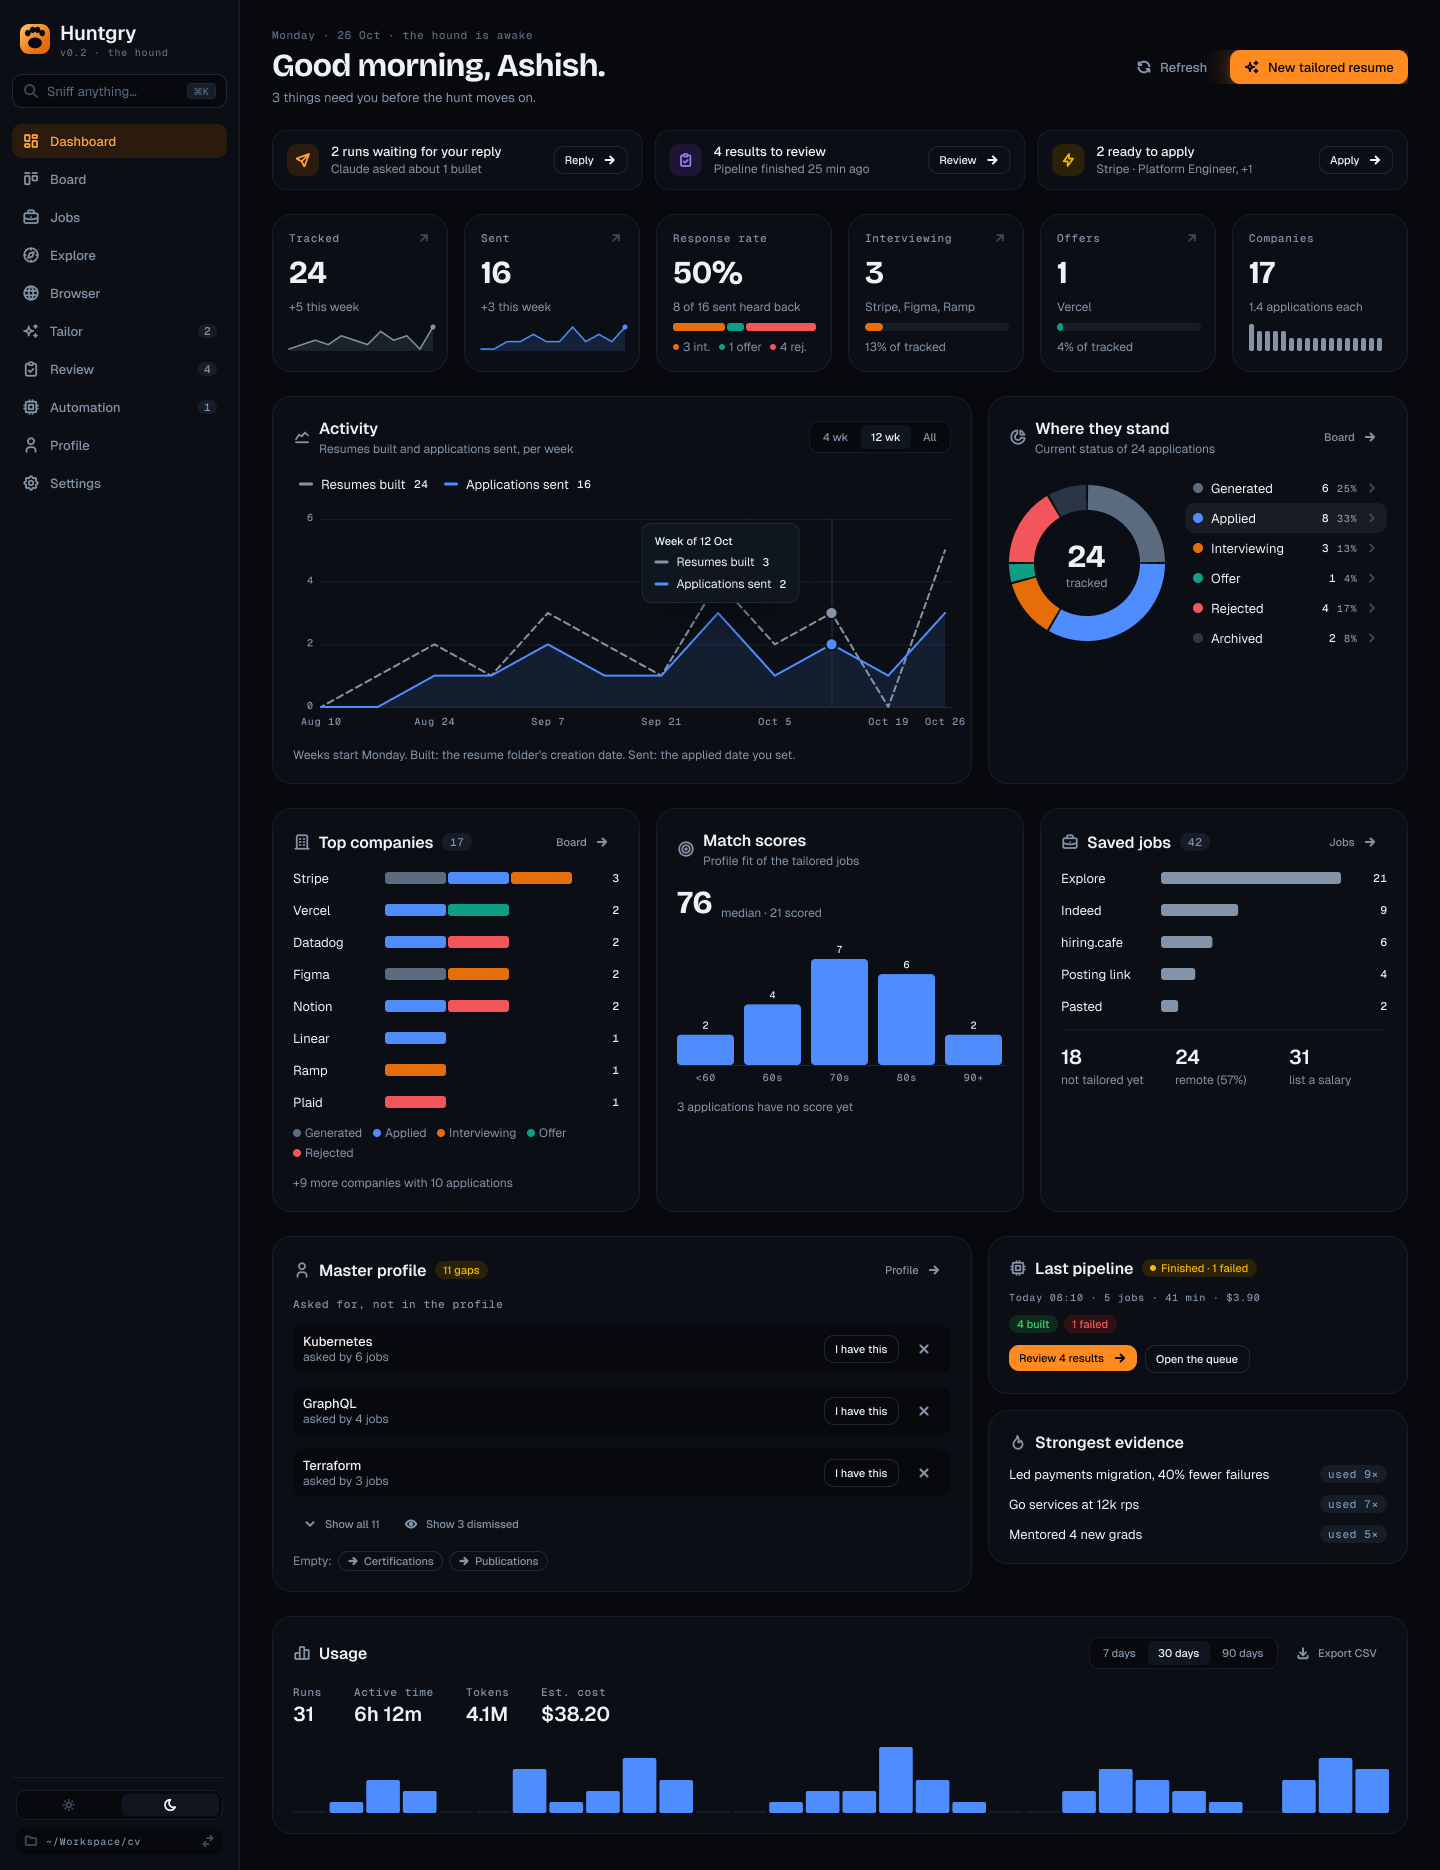
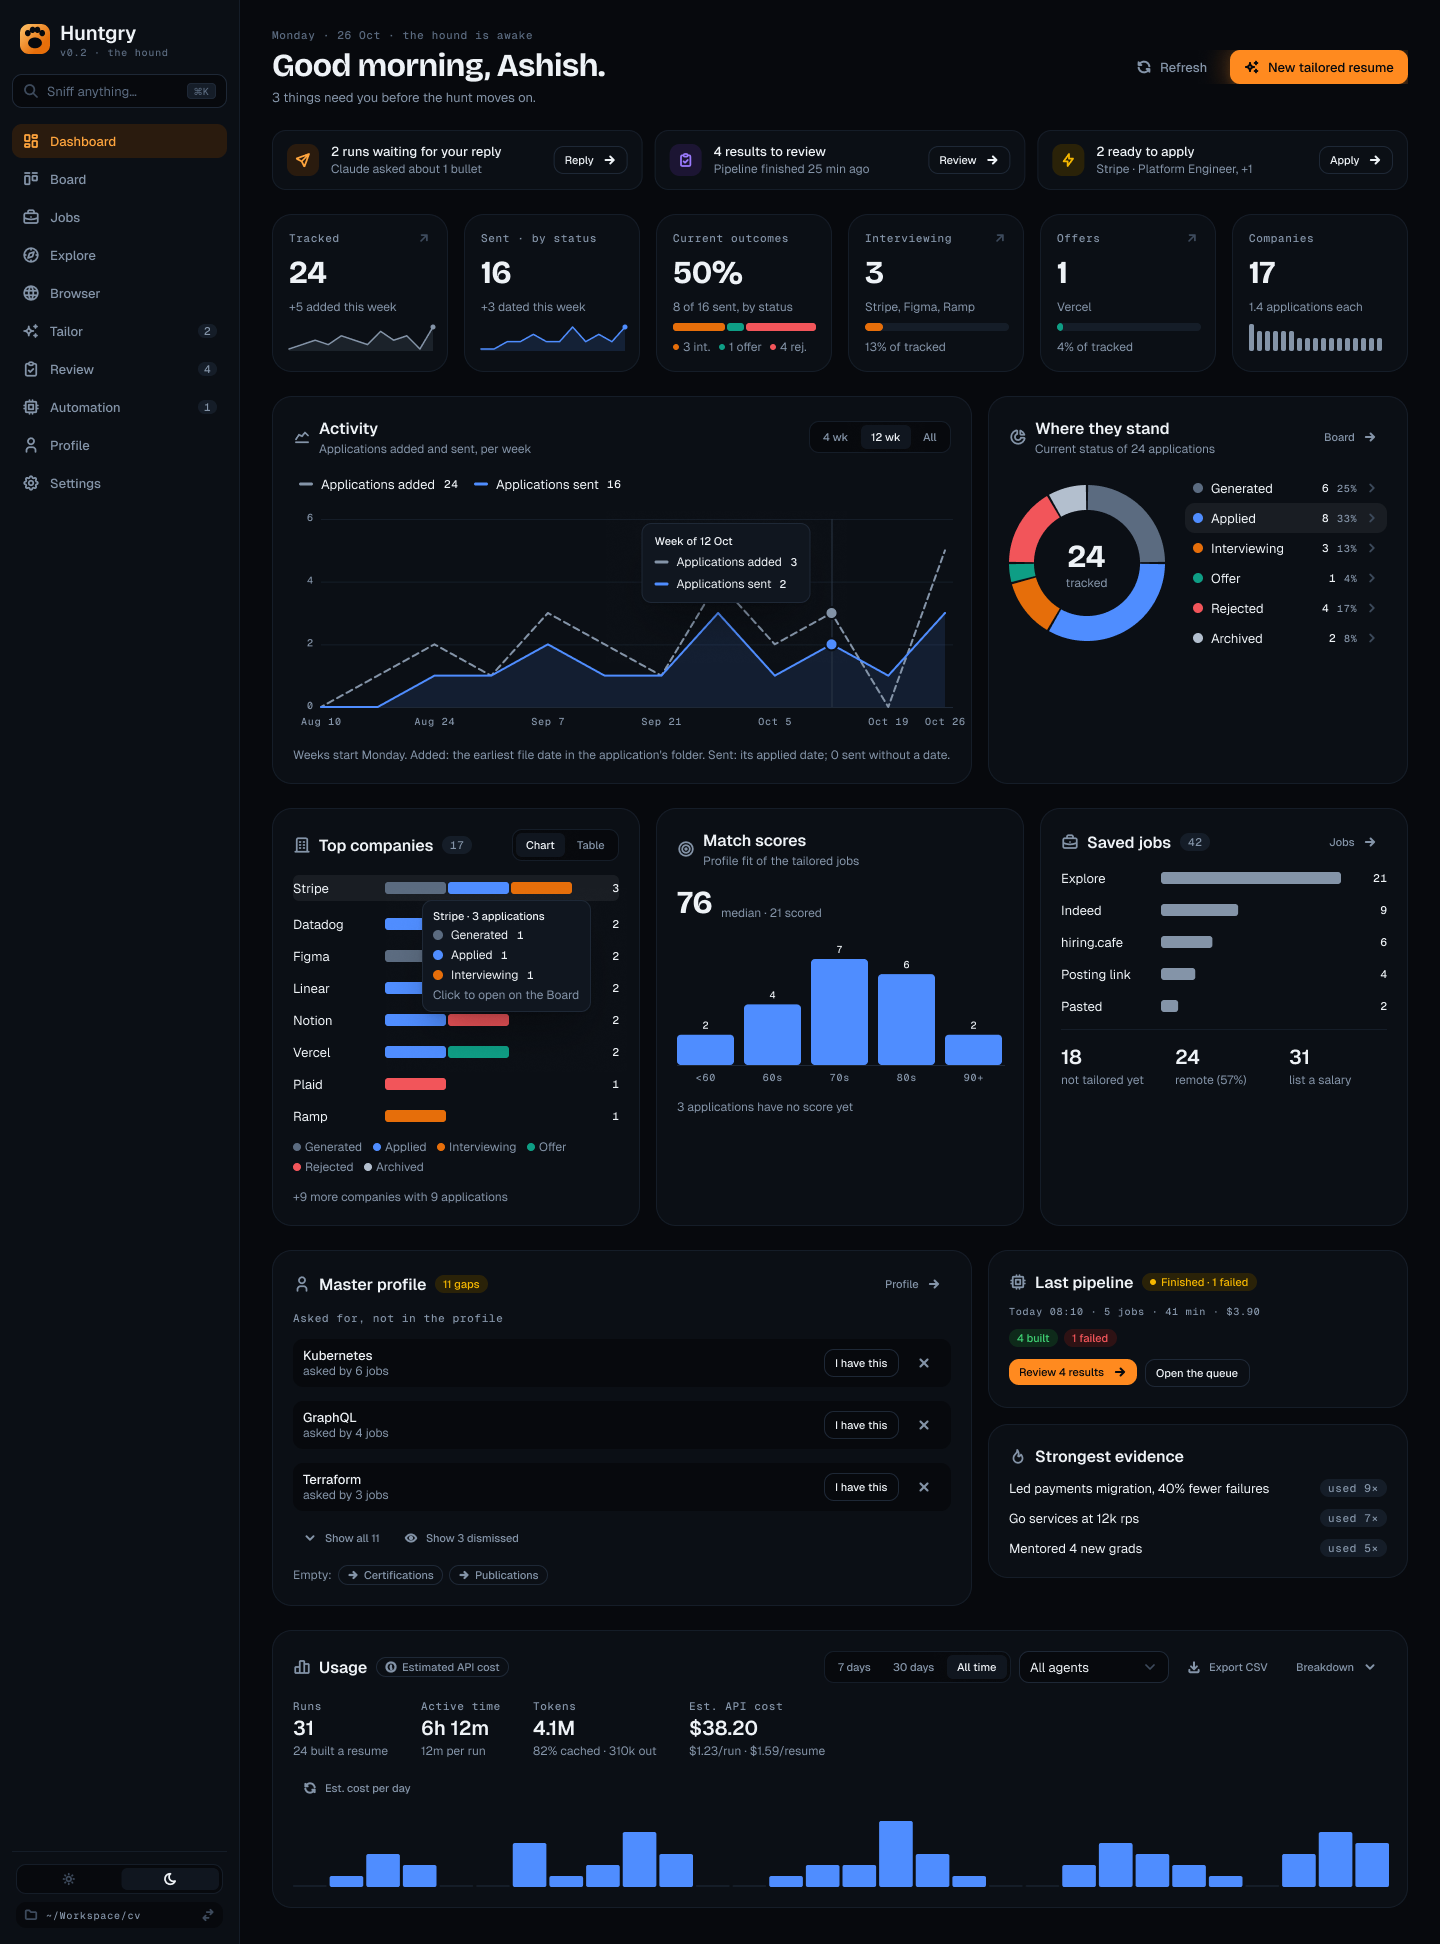
docs(design): Dashboard round 3, Codex's round-2 findings
Sent and Current outcomes are current-status figures with their denominator,
not links; the added series is named for what createdAt is; Top companies
gets a visible table and a per-row tooltip; Archived is legible; Usage is
drawn with its real controls; appliedAt is never invented and its UTC writer
is in scope for #183.

diff --git a/docs/design/dashboard-v2.md b/docs/design/dashboard-v2.md
@@ -6,8 +6,8 @@ Figma: [Huntgry — Product & Website Design](https://www.figma.com/design/zhNcc
 
 | Frame | Light | Dark |
 | --- | --- | --- |
-| Wide (1440) | [67:2](https://www.figma.com/design/zhNccc831dRnOhj2tmqqkc/?node-id=67-2) | [67:674](https://www.figma.com/design/zhNccc831dRnOhj2tmqqkc/?node-id=67-674) |
-| Narrow (1024) | [67:1346](https://www.figma.com/design/zhNccc831dRnOhj2tmqqkc/?node-id=67-1346) | [67:2018](https://www.figma.com/design/zhNccc831dRnOhj2tmqqkc/?node-id=67-2018) |
+| Wide (1440) | [68:2](https://www.figma.com/design/zhNccc831dRnOhj2tmqqkc/?node-id=68-2) | [68:712](https://www.figma.com/design/zhNccc831dRnOhj2tmqqkc/?node-id=68-712) |
+| Narrow (1024) | [68:1422](https://www.figma.com/design/zhNccc831dRnOhj2tmqqkc/?node-id=68-1422) | [68:2132](https://www.figma.com/design/zhNccc831dRnOhj2tmqqkc/?node-id=68-2132) |
 | Empty (cold start) | [66:2691](https://www.figma.com/design/zhNccc831dRnOhj2tmqqkc/?node-id=66-2691) | [66:2865](https://www.figma.com/design/zhNccc831dRnOhj2tmqqkc/?node-id=66-2865) |
 
 ## What changed since round 1
@@ -20,7 +20,7 @@ them most of the review findings:
 | --- | --- | --- |
 | Pipeline funnel with "share of previous stage" bars | **Where they stand** donut of *current* statuses, which sum to the total | Codex and Antigravity (high): current-status counts are partitions, not cohort milestones |
 | Fresh matches (top Explore rows) | Removed. The Dashboard never reads Explore | Codex (medium), Antigravity (high): no cache-only Explore API; staleness |
-| This week (latest change per application, with times) | **Activity** chart: resumes built per week (`createdAt`) and applications sent per week (`appliedAt`, a date) | Codex and Antigravity (high): fabricated times and history |
+| This week (latest change per application, with times) | **Activity** chart: applications added per week (`createdAt`) and applications sent per week (`appliedAt`, a date) | Codex and Antigravity (high): fabricated times and history |
 | Automation card absorbing Last pipeline, "$3.90 of $10 today" | Removed. **Last pipeline** stays today's card, unchanged | Codex and Antigravity (medium): per-run cap; manual pipelines |
 | Master profile "top 3 + Show all · 3 marked not me" | Today's **ProfileInsightsCard**, unchanged (show all, show dismissed and restore, empty-section links, "Already in your Gaps & notes") | Codex and Antigravity (medium): "nothing is dropped" was not true |
 | Compact Usage strip | Today's **UsageCard**, unchanged | — |
@@ -46,18 +46,22 @@ From top to bottom:
 2. **Needs you** (today's `NeedsYouStrip`): one card per item, equal heights. Below 1280 px they stack
    one per row, so a long line never wraps into a tall card.
 3. **Stat cards**, six in a row (3 × 2 below 1280 px):
-   - **Tracked**: every application. "+N this week", and a 12-week sparkline of resumes built.
-   - **Sent**: applications whose status is applied, interviewing, offer or rejected. "+N this week",
-     and a 12-week sparkline of the `appliedAt` dates.
-   - **Response rate**: (interviewing + offer + rejected) ÷ sent, with a split bar of the three parts.
+   - **Tracked**: every application. "+N added this week", and a 12-week sparkline of applications added.
+   - **Sent · by status**: applications whose status is now applied, interviewing, offer or rejected.
+     "+N dated this week", and a 12-week sparkline of the `appliedAt` dates. It is a current-status
+     count, not an all-time total: archiving a sent application lowers it.
+   - **Current outcomes**: (interviewing + offer + rejected) ÷ Sent, shown with its denominator ("8 of 16
+     sent, by status") and a split bar of the three parts. It is not a response rate and makes no claim
+     about responses in the past.
    - **Interviewing** and **Offers**: current counts, the companies (`listNames`), and a bar of their
      share of Tracked.
    - **Companies**: distinct companies, applications per company, and a strip of one bar per company.
 
-   Tracked, Sent, Interviewing and Offers open the Board as the tiles do today (`kpiColumn`; Sent opens
-   Applied). Rejected and Archived counts are in the donut, whose rows also open the Board.
+   Tracked, Interviewing and Offers open the Board as the tiles do today (`kpiColumn`). Sent and Current
+   outcomes are information only, because no Board destination shows four columns at once. Applied,
+   Rejected and Archived each open their column from the donut's legend rows.
 4. **Activity** (line chart, wide) and **Where they stand** (donut).
-   - Activity has two series on one axis, resumes built and applications sent per week, with a
+   - Activity has two series on one axis, applications added and applications sent per week, with a
      4 wk / 12 wk / All range. Hovering or focusing a week shows a crosshair and a tooltip with both
      counts.
    - Where they stand shows all six statuses. Its legend rows (count, share) are buttons that open the
@@ -65,12 +69,21 @@ From top to bottom:
 5. **Top companies**, **Match scores**, **Saved jobs**, three equal cards (two per row below 1280 px):
    - Top companies: the eight companies with the most applications, each a bar stacked by status in the
      donut's colours and order, then "+N more companies with M applications".
+     - **Chart / Table** toggle (visible, keyboard-operable) in the card header. The Table view lists each
+       company with a count per status (six columns), so the breakdown never rests on colour alone.
+     - In the Chart view each row is a button. Pointer hover and keyboard focus show the same tooltip
+       ("Stripe · 3 applications: 1 Generated, 1 Applied, 1 Interviewing"), and the button opens the
+       Board filtered by that company.
+     - Segments have a 2 px surface gap, so every segment, Archived included, has a visible edge.
    - Match scores: a histogram of `tracking.match.profileFit` (< 60, 60s, 70s, 80s, 90+), the median, and
      "N applications have no score yet".
    - Saved jobs: saved jobs (dismissed ones left out) by source, then not tailored yet, remote, and with
      a salary.
 6. Today's cards, unchanged: **Master profile** (ProfileInsightsCard), with **Last pipeline** and
    **Strongest evidence** in a 420 px column beside it (side by side below 1280 px), then **Usage**.
+   The frames draw Usage with its real controls: 7 days / 30 days / All time, the agent select, Export
+   CSV, Breakdown, each KPI's sub-line, and the cost/tokens toggle above the day chart. The unpriced and
+   incomplete-turn notes and the Breakdown panel are unchanged too.
 
 **Below ~1000 px window** (the app's minimum is 900): chart pairs stack to one column, and the donut's
 legend goes under the ring (as in the narrow frame's donut card).
@@ -100,22 +113,23 @@ functions in `summary.ts` (or a new `stats.ts`), unit-tested on fixtures.
 | This week | From Monday 00:00 local time, the same bucket as the chart's last week |
 | Tracked +N | `createdAt` this week |
 | Sent | status ∈ {applied, interviewing, offer, rejected} |
-| Sent +N, Sent sparkline, Activity "sent" | `tracking.appliedAt` (`YYYY-MM-DD`, read as a local date). Main sets it the first time the status becomes applied; an application that skipped Applied has none, is not on the line, and the chart's footnote then says "N sent without a date". |
-| Activity "built", Tracked sparkline | `createdAt` (the folder's creation time) per week |
-| Response rate | (interviewing + offer + rejected) ÷ Sent; "—" while Sent is 0. Tooltip: "By current status: a rejection counts as hearing back." It is a share of current statuses, not a history. |
+| Sent +N, Sent sparkline, Activity "sent" | `tracking.appliedAt` (`YYYY-MM-DD`) of every application that has one, archived included, per week. Sent (the card) is by status, so the two can differ; the chart's footnote names the difference ("N sent without a date"). Huntgry never invents a date. Main sets `appliedAt` the first time the status becomes applied. An application moved straight to Interviewing or Rejected has none, and its drawer's date field is how the user adds the real one. |
+| `appliedAt` day | Main writes it with `toISOString().slice(0, 10)`, a UTC date, so on a Sunday evening in the Americas it can already read Monday. #183 changes the writer to the local date (with a test at that boundary); dates written before stay as they are, and the spec accepts that. |
+| Activity "added", Tracked sparkline | `createdAt` per week. The scanner sets it to the earliest file time in the application's folder (`scan.ts`), so it says when the application was added, not when its resume was built. Series, tooltip, table and copy all say "added". |
+| Current outcomes | (interviewing + offer + rejected) ÷ Sent, by current status, with the denominator shown; "—" while Sent is 0. No claim about past responses: archived applications are in neither count. |
 | Interviewing, Offers | Current counts; share = count ÷ Tracked |
 | Companies | Distinct `company`, trimmed and compared case-insensitively; "N applications each" = Tracked ÷ Companies, one decimal |
 | Where they stand | Counts per status; they sum to Tracked |
 | Top companies | Count per company, highest first, ties alphabetical; eight rows; segments by current status |
 | Match scores | `tracking.match.profileFit` of applications that have `match`; median of those |
-| Saved jobs | `jobs.filter(j => !j.dismissed)`; sources `jobright` → Explore, `indeed`, `hiring.cafe`, `url` → Posting link, `pasted` (the Board's `BOARD_SOURCE_LABEL` says Jobright and Link; #183 picks one wording for both); not tailored = no `tailoredAt`; remote = `remote` or `workplaceType === 'remote'`; with a salary = non-empty `salary` |
+| Saved jobs | `jobs.filter(j => !j.dismissed)`; sources `jobright` → Explore, `indeed`, `hiring.cafe`, `url` → Posting link, `pasted` (the Board's `BOARD_SOURCE_LABEL` says Jobright and Link; #183 picks one wording for both); not tailored = no `tailoredAt`; remote = `remote` or `workplaceType === 'Remote'` (the type's casing; a fixture covers `remote: false, workplaceType: 'Remote'`); with a salary = non-empty `salary` |
 
 When the scan was truncated (`list.truncated`), today's warning shows under the stat cards, and every
 chart's footnote adds "may be incomplete".
 
 Board links: the Board takes only `column` and `applicationId` today (`PageParams['board']`). A company
-row opening the Board filtered by that company needs a `text` filter parameter (`BoardFilter.text`);
-#183 adds it, or the rows stay plain text. The Board hides archived cards a week after they were
+row opening the Board filtered by that company needs a `text` parameter (`PageParams['board'].text`,
+applied as `BoardFilter.text`), which #183 adds. The Board hides archived cards a week after they were
 archived (`ARCHIVE_TTL_DAYS`), so Archived on the Board can show fewer cards than the donut counts. The
 donut's tooltip for Archived says so.
 
@@ -132,7 +146,7 @@ vision, contrast against the card surface):
 | Interviewing | ember-600 `#e66e0a` | ember-600 `#e66e0a` |
 | Offer | trail-600 `#0e9e85` | trail-600 `#0e9e85` |
 | Rejected | red-600 `#d23a40` | red-500 `#f2555a` |
-| Archived | ink-100 `#d9e0e8` (neutral) | ink-600 `#2a3645` (neutral) |
+| Archived | ink-500 `#3d4a5c` (neutral) | ink-200 `#b3bfce` (neutral) |
 
 - Applied, Interviewing, Offer and Rejected pass every check in both modes. The worst adjacent pair is
   Offer ↔ Rejected: ΔE 9.5 (deutan) in light, 9.9 (protan) in dark.
@@ -149,10 +163,10 @@ vision, contrast against the card surface):
 
 ## Interaction and accessibility
 
-- Stat cards that link are today's `KpiTile` buttons, with labels like "Sent: 16, 3 this week. Open on
-  the Board". Response rate and Companies are not buttons.
+- Stat cards that link are today's `KpiTile` buttons, with labels like "Interviewing: 3, Stripe, Figma and Ramp. Open on
+  the Board". Sent, Current outcomes and Companies are not buttons.
 - Every chart is a `<figure>` with a heading and an `aria-label` summary, for example "Activity, 12
-  weeks: 24 resumes built, 16 applications sent". A visually hidden `<table>` of the same numbers
+  weeks: 24 applications added, 16 applications sent". A visually hidden `<table>` of the same numbers
   follows it.
 - Sparklines, the companies strip and the empty state's preview are `aria-hidden`.
 - Activity: the plot is one focusable element, and ← / → move the highlighted week. The tooltip follows
@@ -176,15 +190,18 @@ vision, contrast against the card surface):
 - e2e: the Dashboard spec checks Tracked and the donut counts against the fixture workspace, a legend
   row opening its Board column, and the cold start hiding the charts.
 
+## Decisions from round 2
+
+- Response rate: renamed **Current outcomes**, with the denominator visible and no historical claim
+  (Codex). Antigravity's case for keeping the number is met the same way.
+- Missing `appliedAt`: Antigravity suggested stamping today when a status skips Applied; Codex warned
+  that would invent a send date. Huntgry never invents one: the footnote counts undated applications,
+  the drawer takes the real date, and #183 fixes the UTC writer.
+- Charts: small SVG components, with no chart library. Both reviewers agreed.
+- Order: needs you → stats → activity and status → companies, scores and saved jobs → today's cards.
+  Both reviewers agreed.
+
 ## Questions for the reviewers
 
-1. Is the response-rate rule (current interviewing + offer + rejected ÷ sent) honest enough with its
-   tooltip, or should the card be dropped until there is a status history?
-2. Main sets `appliedAt` the first time the status becomes applied (`src/main/applications/tracking.ts`).
-   An application moved straight from Generated to Interviewing or Rejected has no date, so it counts in
-   Sent but not on the Activity line; the footnote names how many. Is that enough, or should main also
-   set `appliedAt` when a status skips Applied?
-3. Hand-drawn SVG charts or `@mantine/charts`: is the bundle size worth the hover and tooltip code we
-   would not have to write?
-4. Is the order right for the owner's goal of a summary first: stats, then status and activity, then
-   companies, scores and saved jobs, then today's cards?
+1. Does a Table view on Top companies alone suffice, or should every chart card get the same Chart /
+   Table toggle? Each one already has a hidden table.
